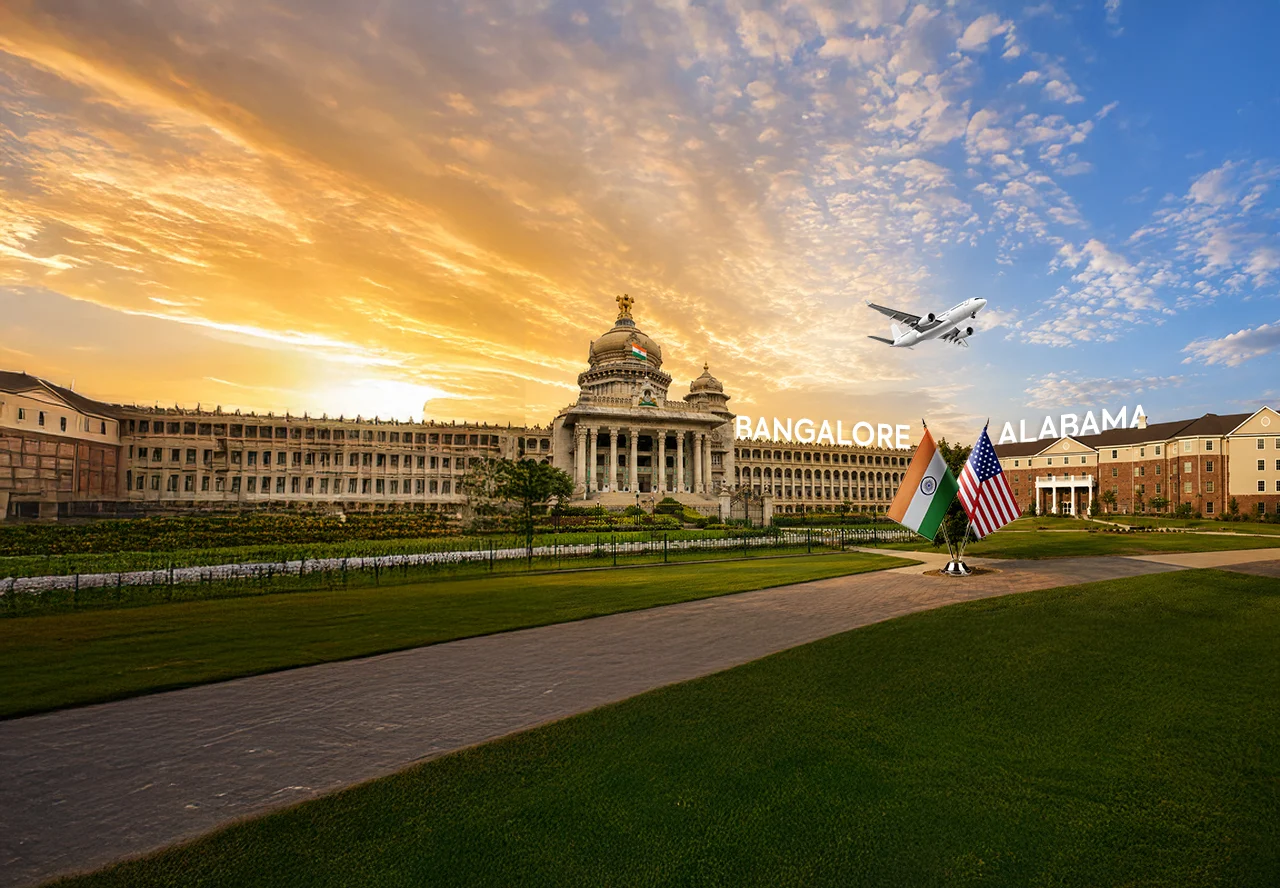
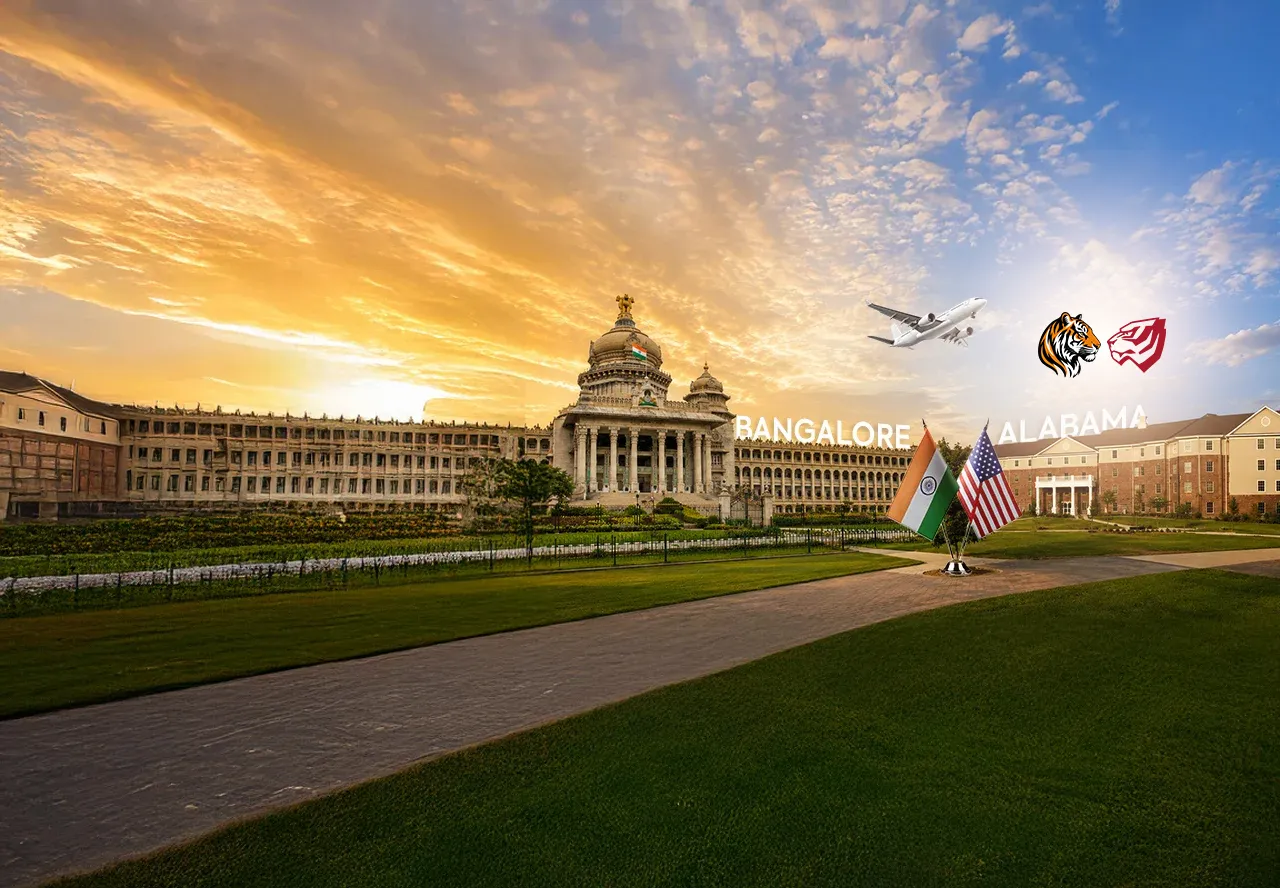
pushh

Changed region(s): [[0.7188, 0.152, 1.0, 0.6081]]

diff --git a/components/Hero.tsx b/components/Hero.tsx
@@ -7,14 +7,14 @@ import EventBanner from "./EventBanner";
 
 const slides = [
   {
-    image: "/homeimages/sona_uwa_1.webp",
+    image: "/homeimages/sona_uwa_2.webp",
     badge: "Global Career Pathway",
     title: "Start in India complete in the USA ",
     description:
       "Study one year at SCALE, Bengaluru, then complete your Master's at the University of West Alabama, USA. Build international credentials and a global professional network.",
   },
   {
-    image: "/homeimages/sona_uwa_2.jpg",
+    image: "/homeimages/sona_uwa_1.webp",
     badge: "Start in Bengaluru. Complete in Alabama.",
     title: "Earn Your MS in Data Science Program from the University of West Alabama, USA",
     description:
